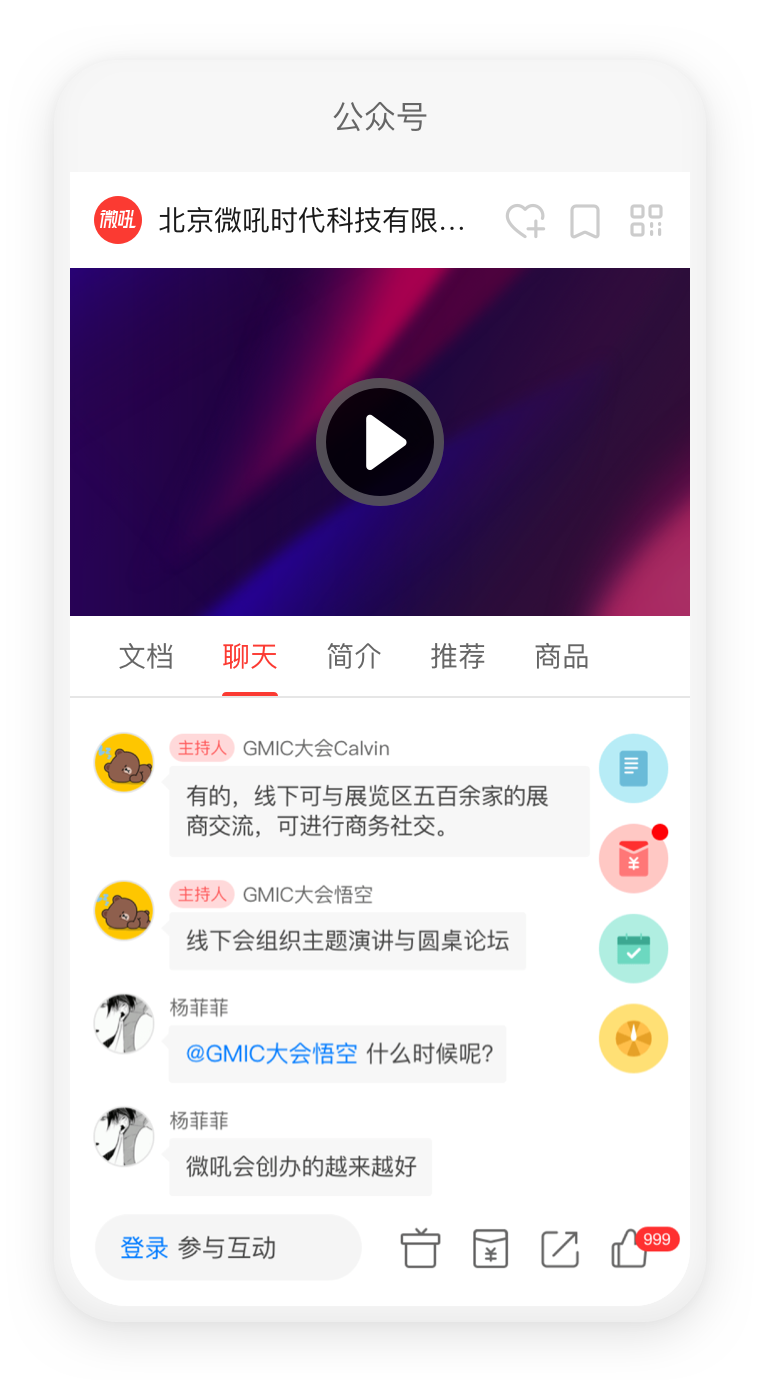
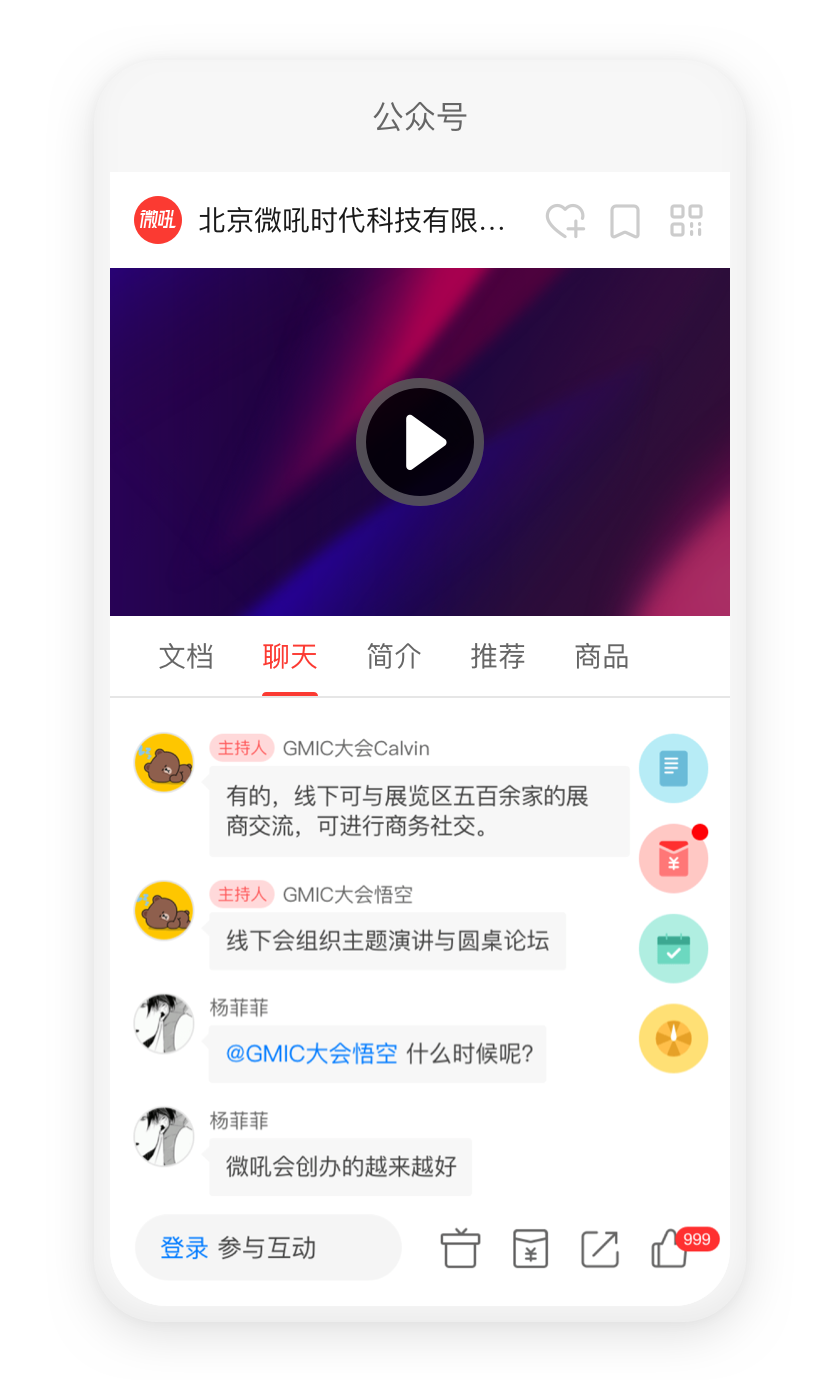
搜索框

diff --git a/src/views/LiveModule/Brands/officialCard.vue b/src/views/LiveModule/Brands/officialCard.vue
@@ -96,6 +96,7 @@
             <span class="title">公众号</span>
             <!-- 公众号 -->
             <div class="gzh_app_mask" v-if="!(alertType > 0)"></div>
+            <div class="gzh_app_close" v-if="!(alertType > 0)"></div>
             <div class="gzh_app"  v-if="!(alertType > 0)">
               <div class="gzh_img_layout">
                 <div class="img-code v-code-preview app-preview">
@@ -542,8 +543,10 @@ export default {
       }
     }
     .official-app{
-      width: 326px;
-      height: 631px;
+      width: 420px;
+      height: 690px;
+      margin-top: -24px;
+      margin-left: -47px;
       background-image: url('../../../common/images/official/phone_yl_1@2x.png');
       background-size: 100%;
       background-position: center;
@@ -551,7 +554,6 @@ export default {
         background-image: url('../../../common/images/official/phone_yl@2x.png');
       }
       background-size: cover;
-      margin-top: -24px;
       position: relative;
       .title{
         display: inline-block;
@@ -629,14 +631,17 @@ export default {
         text-align: center;
         width: 310px;
         height: 566px; */
-        right: calc(50% - 143px);
+        right: calc(50% - 156px);
         top: 75px;
         text-align: center;
-        width: 286px;
-        height: 522px;
+        width: 312px;
+        height: 576px;
         background: #000000;
         border-radius: 0px 0px 26px 26px;
         opacity: 0.6;
+      }
+      .gzh_app_close {
+
       }
       .gzh_app {
         position: absolute;

diff --git a/src/views/MaterialModule/prize.vue b/src/views/MaterialModule/prize.vue
@@ -13,7 +13,7 @@
       <el-button size="medium" type="primary" round class="head-btn length104" @click="createPrize">创建奖品</el-button>
       <el-button size="medium" round class="head-btn length104" v-if="$route.meta.title !== '奖品'" @click="prizeMeterial">资料库</el-button>
       <el-button size="medium" round class="head-btn batch-del" @click="allDelete(null)" :disabled="!prizeChecked.length">批量删除</el-button>
-      <el-input
+      <VhallInput
         class="search-tag"
         placeholder="请输入奖品名称"
         v-model.trim="keyword"
@@ -25,7 +25,7 @@
           slot="suffix"
           @click="searchTableList">
         </i>
-      </el-input>
+      </VhallInput>
       <!-- <div class="inputKey">
         <VhallInput v-model.trim="keyword" placeholder="请输入奖品名称" @keyup.enter.native="searchTableList"  @clear="searchTableList" clearable>
           <i slot="suffix" class="iconfont-v3 saasicon_search" @click="searchTableList" style="cursor: pointer; line-height: 36px;"></i>
@@ -266,7 +266,7 @@ export default {
       /deep/.el-input__inner {
         border-radius: 20px;
         height: 36px;
-        padding-right: 50px;
+        padding-right: 50px!important;
       }
       /deep/ .el-input__suffix {
         cursor: pointer;

diff --git a/src/views/PlatformModule/download.vue b/src/views/PlatformModule/download.vue
@@ -15,12 +15,19 @@
         style="margin-left: 12px;width: 240px"
         @change="search"
       />
-      <el-input placeholder="搜索文件名称" v-model.trim="file_name"
-       clearable
-       @keyup.enter.native="search"
-       @clear="search">
-        <i class="el-icon-search el-input__icon" slot="suffix" @click="search"></i>
-      </el-input>
+      <VhallInput
+        class="search-tag"
+        placeholder="搜索文件名称"
+        v-model.trim="file_name"
+        clearable
+        @change="search"
+        @keyup.enter.native="search">
+        <i
+          class="el-icon-search el-input__icon"
+          slot="suffix"
+          @click="search">
+        </i>
+      </VhallInput>
     </div>
     <div class="download-list" v-if="docDao.total >0">
       <table-list
@@ -454,6 +461,21 @@ export default {
     /deep/ .el-input__suffix{
       cursor: pointer;
       /deep/ .el-input__icon{
+        line-height: 36px;
+      }
+    }
+  }
+  .search-tag {
+    /deep/.el-input__inner {
+      border-radius: 20px;
+      height: 36px;
+      padding-right: 50px!important;
+    }
+    /deep/ .el-input__suffix {
+      cursor: pointer;
+      /deep/ .el-input__icon {
+        width: auto;
+        margin-right: 5px;
         line-height: 36px;
       }
     }

diff --git a/src/views/LiveModule/Data/userData.vue b/src/views/LiveModule/Data/userData.vue
@@ -43,7 +43,7 @@
           />
         </el-select>
         <el-checkbox v-model="checkedValue"  @change="searchTableList" style="margin-left:16px">合并同一用户</el-checkbox>
-        <el-input
+        <VhallInput
             class="search-tag"
             placeholder="请输入用户昵称"
             v-model.trim="title"
@@ -55,7 +55,7 @@
               slot="suffix"
               @click="searchTableList">
             </i>
-          </el-input>
+          </VhallInput>
         <!-- <el-input class="inputer" v-model.trim="title" placeholder="请输入用户昵称" style="vertical-align: top;margin-left:20px" @clear="searchTableList" @keyup.enter.native="searchTableList"  clearable><i slot="suffix" class="el-input__icon el-icon-search" @click="searchTableList"></i></el-input> -->
         <div class="export-data">
           <el-button round  size="medium" @click="exportCenterData">导出数据</el-button>
@@ -351,7 +351,7 @@ export default {
       /deep/.el-input__inner {
         border-radius: 20px;
         height: 36px;
-        padding-right: 50px;
+        padding-right: 50px!important;
       }
       /deep/ .el-input__suffix {
         cursor: pointer;

diff --git a/src/views/MaterialModule/video.vue b/src/views/MaterialModule/video.vue
@@ -14,7 +14,7 @@
     <div class="head-operat" v-show="total || isSearch">
       <el-button size="medium" type="primary" round class="length104 head-btn set-upload">上传 <input ref="upload" class="set-input" type="file" @change="tirggerFile($event)" accept=".mp4,.mp3,.rmvb,.avi,.mkv,.flv,.mov,.mav,.wmv"> </el-button>
       <el-button size="medium" round class="length104 head-btn batch-del" @click="allDelete(null)" :disabled="!checkedList.length">批量删除</el-button>
-      <el-input
+      <VhallInput
         class="search-tag"
         placeholder="请输入音视频名称"
         v-model.trim="keyword"
@@ -26,7 +26,7 @@
           slot="suffix"
           @click="searchTableList">
         </i>
-      </el-input>
+      </VhallInput>
     </div>
     <div class="video-list" v-if="total || isSearch">
       <table-list ref="tableList" :manageTableData="tableData" :tabelColumnLabel="tabelColumn" :tableRowBtnFun="tableRowBtnFun"
@@ -472,7 +472,7 @@ export default {
    /deep/.el-input__inner {
       border-radius: 20px;
       height: 36px;
-      padding-right: 50px;
+      padding-right: 50px!important;
     }
     /deep/ .el-input__suffix {
       cursor: pointer;

diff --git a/src/views/MaterialModule/question.vue b/src/views/MaterialModule/question.vue
@@ -10,7 +10,7 @@
     <div class="head-operat" v-show="total || isSearch">
       <el-button size="medium" type="primary" round class="length104 head-btn set-upload" v-preventReClick @click="addQuestion">创建问卷</el-button>
       <el-button size="medium" round class="length104 head-btn batch-del" @click="deleteAll(null)" :disabled="!selectChecked.length">批量删除</el-button>
-      <el-input
+      <VhallInput
         class="search-tag"
         placeholder="请输入问卷名称"
         v-model.trim="keyword"
@@ -22,7 +22,7 @@
           slot="suffix"
           @click="searchTableList">
         </i>
-      </el-input>
+      </VhallInput>
     </div>
     <div class="no-live" v-if="!total && !isSearch">
       <noData :nullType="'nullData'" :text="'您还没有问卷，快来创建吧！'">
@@ -236,7 +236,7 @@ export default {
       /deep/.el-input__inner {
         border-radius: 20px;
         height: 36px;
-        padding-right: 50px;
+        padding-right: 50px!important;
       }
       /deep/ .el-input__suffix {
         cursor: pointer;

diff --git a/src/components/SearchArea/index.vue b/src/components/SearchArea/index.vue
@@ -48,7 +48,7 @@
         <el-button v-else-if="item.type==6" @click="searchList" size="medium" round>查询</el-button>
         <!-- 输入框 -->
        <!--  <el-input class="inputer" v-model.trim="searchParams[item.key]" :placeholder="placeholder" style="width: 180px;" v-else @clear="changeInput" @keyup.enter.native="changeInput"  :clearable="clearable"><i slot="suffix" class="el-input__icon el-icon-search" @click="changeInput"></i></el-input> -->
-        <el-input
+        <VhallInput
           v-else
           class="search-tag"
           :placeholder="placeholder"
@@ -61,7 +61,7 @@
             slot="suffix"
             @click="changeInput">
           </i>
-        </el-input>
+        </VhallInput>
       </el-form-item>
     </el-form>
     <div class="export-data" v-if="isExports">
@@ -271,7 +271,7 @@ export default {
       /deep/.el-input__inner {
         border-radius: 20px;
         height: 36px;
-        padding-right: 50px;
+        padding-right: 50px!important;
       }
       /deep/ .el-input__suffix {
         cursor: pointer;

diff --git a/src/views/MaterialModule/word.vue b/src/views/MaterialModule/word.vue
@@ -54,7 +54,7 @@
         <!--<el-button type="primary" round @click.prevent.stop="importWordOpen" size="medium">上传文档</el-button>-->
         <el-button type="primary" round @click="openCheckWord" size="medium" v-if="$route.params.str">资料库</el-button>
         <el-button round @click="wordMultiDel" class="transparent-btn" size="medium" :disabled="multipleSelection && multipleSelection.length === 0">批量删除</el-button>
-        <el-input
+        <VhallInput
           class="head-btn search-tag"
           placeholder="请输入文档名称"
           v-model="formParams.keyword"
@@ -66,7 +66,7 @@
             slot="suffix"
             @click="initPage">
           </i>
-        </el-input>
+        </VhallInput>
       </div>
       <div class="word-list" v-show="!no_show">
         <table-list
@@ -1065,7 +1065,7 @@ export default {
       color: #666666;
       height: 36px;
       line-height: 36px;
-      padding-right: 50px;
+      padding-right: 50px!important;
     }
     /deep/ .el-input__suffix {
       cursor: pointer;

diff --git a/src/views/LiveModule/Brands/advertisementCard.vue b/src/views/LiveModule/Brands/advertisementCard.vue
@@ -13,7 +13,7 @@
             <i slot="suffix" class="iconfont-v3 saasicon_search" @click="searchAdvTableList" style="cursor: pointer; line-height: 36px;"></i>
           </VhallInput>
         </span> -->
-        <el-input
+        <VhallInput
           class="search-tag"
           placeholder="请输入广告标题"
           v-model.trim="paramsObj.keyword"
@@ -25,7 +25,7 @@
             slot="suffix"
             @click="searchAdvTableList">
           </i>
-        </el-input>
+        </VhallInput>
       </div>
       <div class="no-live" v-if="!total && !isSearch">
         <noData :nullType="'nullData'" :text="'您还没有广告，快来创建吧！'">
@@ -233,7 +233,7 @@ export default {
       /deep/.el-input__inner {
         border-radius: 20px;
         height: 36px;
-        padding-right: 50px;
+        padding-right: 50px!important;
       }
       /deep/ .el-input__suffix {
         cursor: pointer;

diff --git a/src/views/StatisticsModule/dataLive.vue b/src/views/StatisticsModule/dataLive.vue
@@ -19,7 +19,7 @@
           :picker-options="pickerOptions"
           style="width: 240px;margin-right:16px"
         />
-        <el-input
+        <VhallInput
           class="search-tag"
           placeholder="请输入活动标题"
           v-model.trim="title"
@@ -31,7 +31,7 @@
             slot="suffix"
             @click="searchTableList">
           </i>
-        </el-input>
+        </VhallInput>
         <div class="export-data">
           <el-button round  size="medium" @click="exportCenterData">导出数据</el-button>
         </div>
@@ -267,7 +267,7 @@ export default {
       /deep/.el-input__inner {
         border-radius: 20px;
         height: 36px;
-        padding-right: 50px;
+        padding-right: 50px!important;
       }
       /deep/ .el-input__suffix {
         cursor: pointer;

diff --git a/src/views/MaterialModule/delWord.vue b/src/views/MaterialModule/delWord.vue
@@ -53,7 +53,7 @@
         <el-button type="primary" round @click.prevent.stop="importWordOpen" size="medium">上传文档</el-button>
         <el-button type="primary" round @click="openCheckWord" size="medium" v-if="$route.params.str">资料库</el-button>
         <el-button round @click="wordMultiDel" size="medium" :disabled="multipleSelection && multipleSelection.length === 0">批量删除</el-button>
-        <el-input
+        <VhallInput
           class="head-btn search-tag"
           placeholder="请输入文档名称"
           v-model="formParams.keyword"
@@ -65,7 +65,7 @@
             slot="suffix"
             @click="initPage">
           </i>
-        </el-input>
+        </VhallInput>
       </div>
       <div class="word-list">
         <table-list

diff --git a/src/views/LiveModule/list.vue b/src/views/LiveModule/list.vue
@@ -29,7 +29,7 @@
               :value="item.value">
             </el-option>
           </el-select>
-          <el-input
+          <VhallInput
             class="search-tag"
             placeholder="搜索直播标题"
             v-model.trim="keyWords"
@@ -41,7 +41,7 @@
               slot="suffix"
               @click="searchHandler">
             </i>
-          </el-input>
+          </VhallInput>
         </div>
       </div>
     <!-- 操作栏 -->
@@ -381,7 +381,7 @@ export default {
       /deep/.el-input__inner {
         border-radius: 20px;
         height: 36px;
-        padding-right: 50px;
+        padding-right: 50px!important;
       }
       /deep/ .el-input__suffix {
         cursor: pointer;
